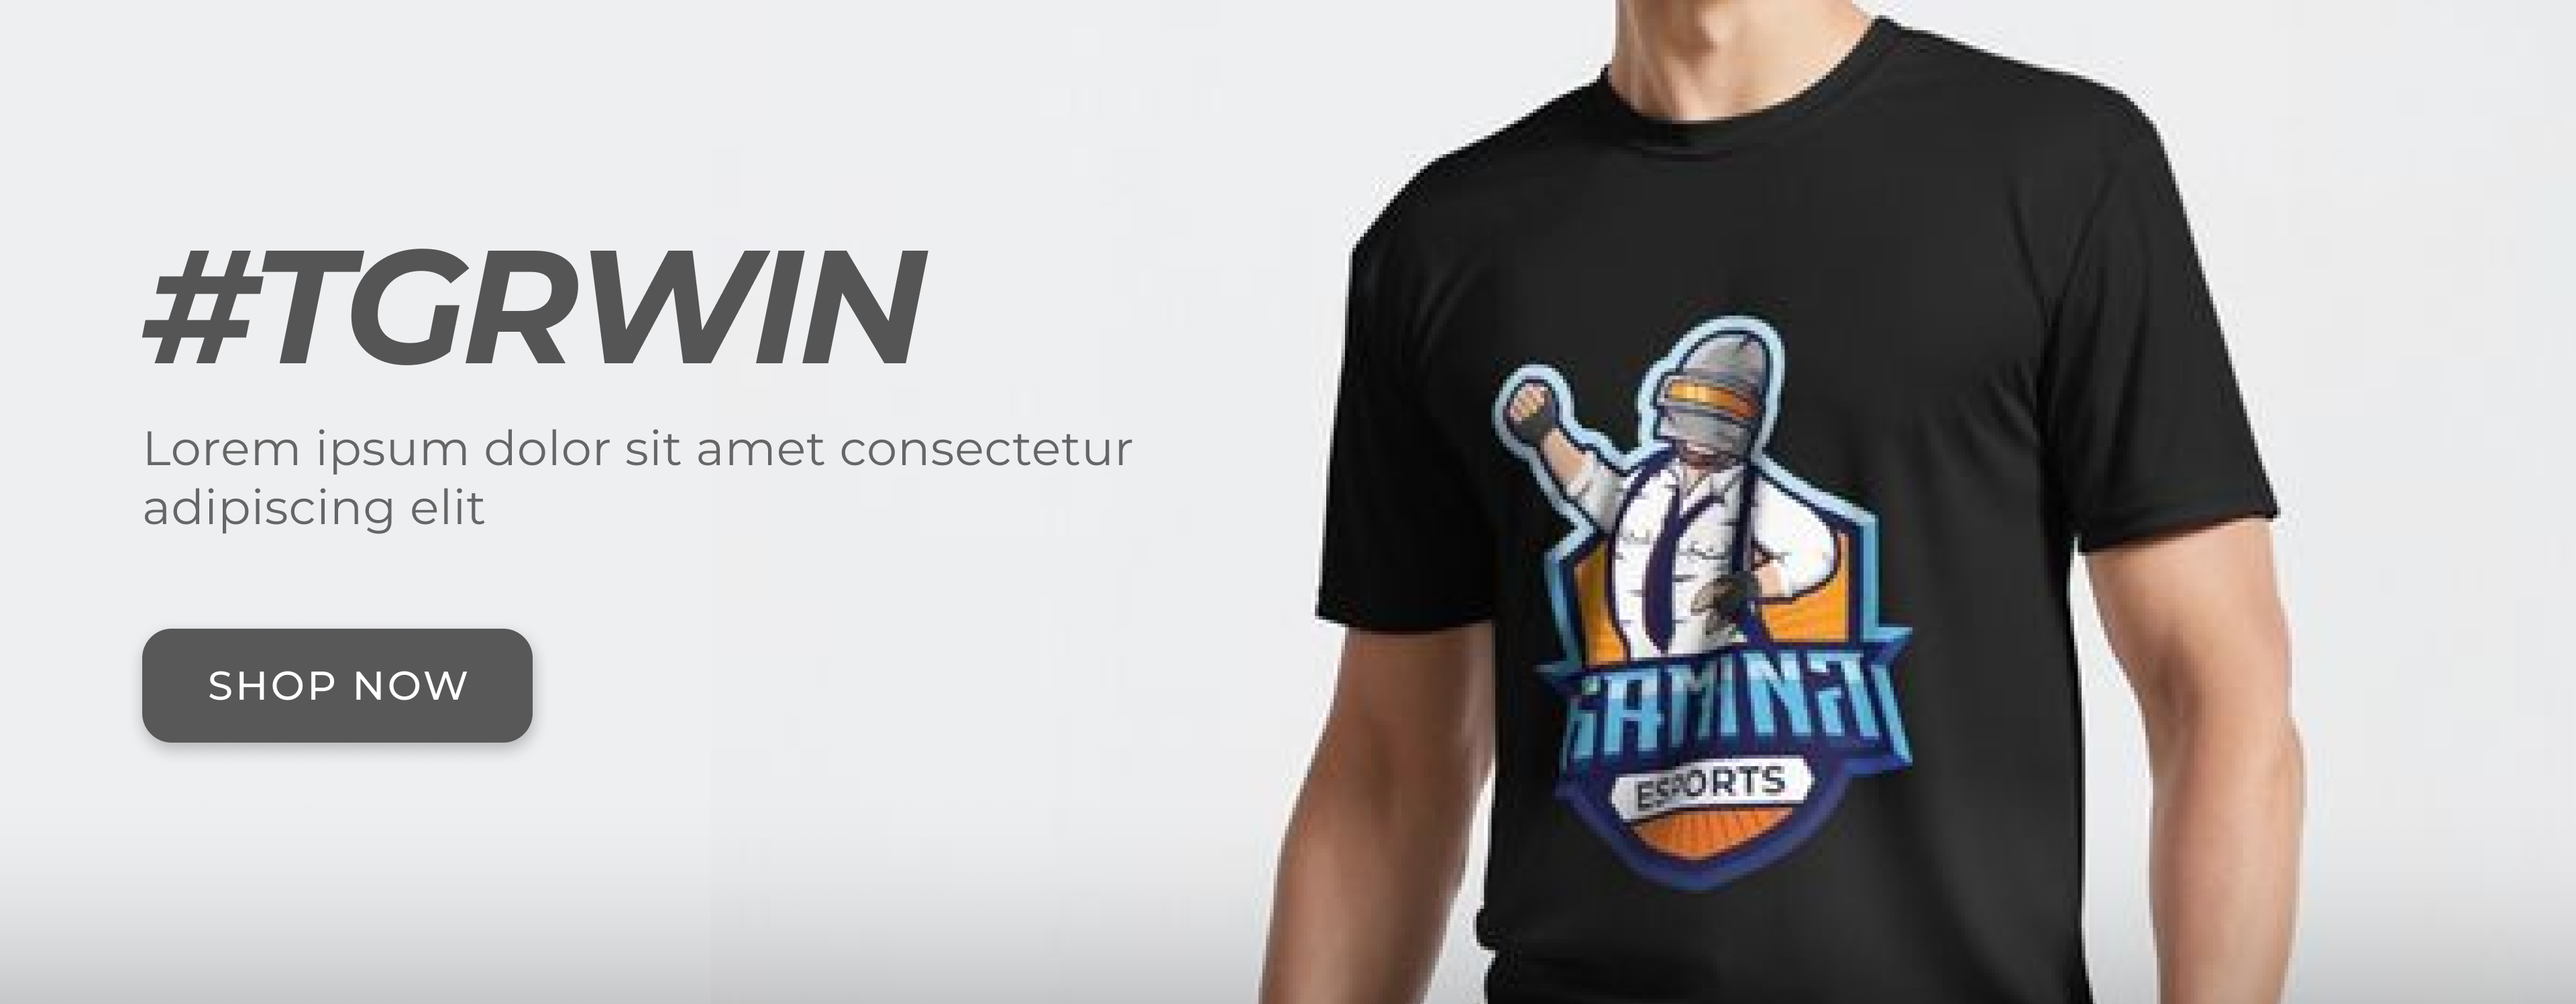
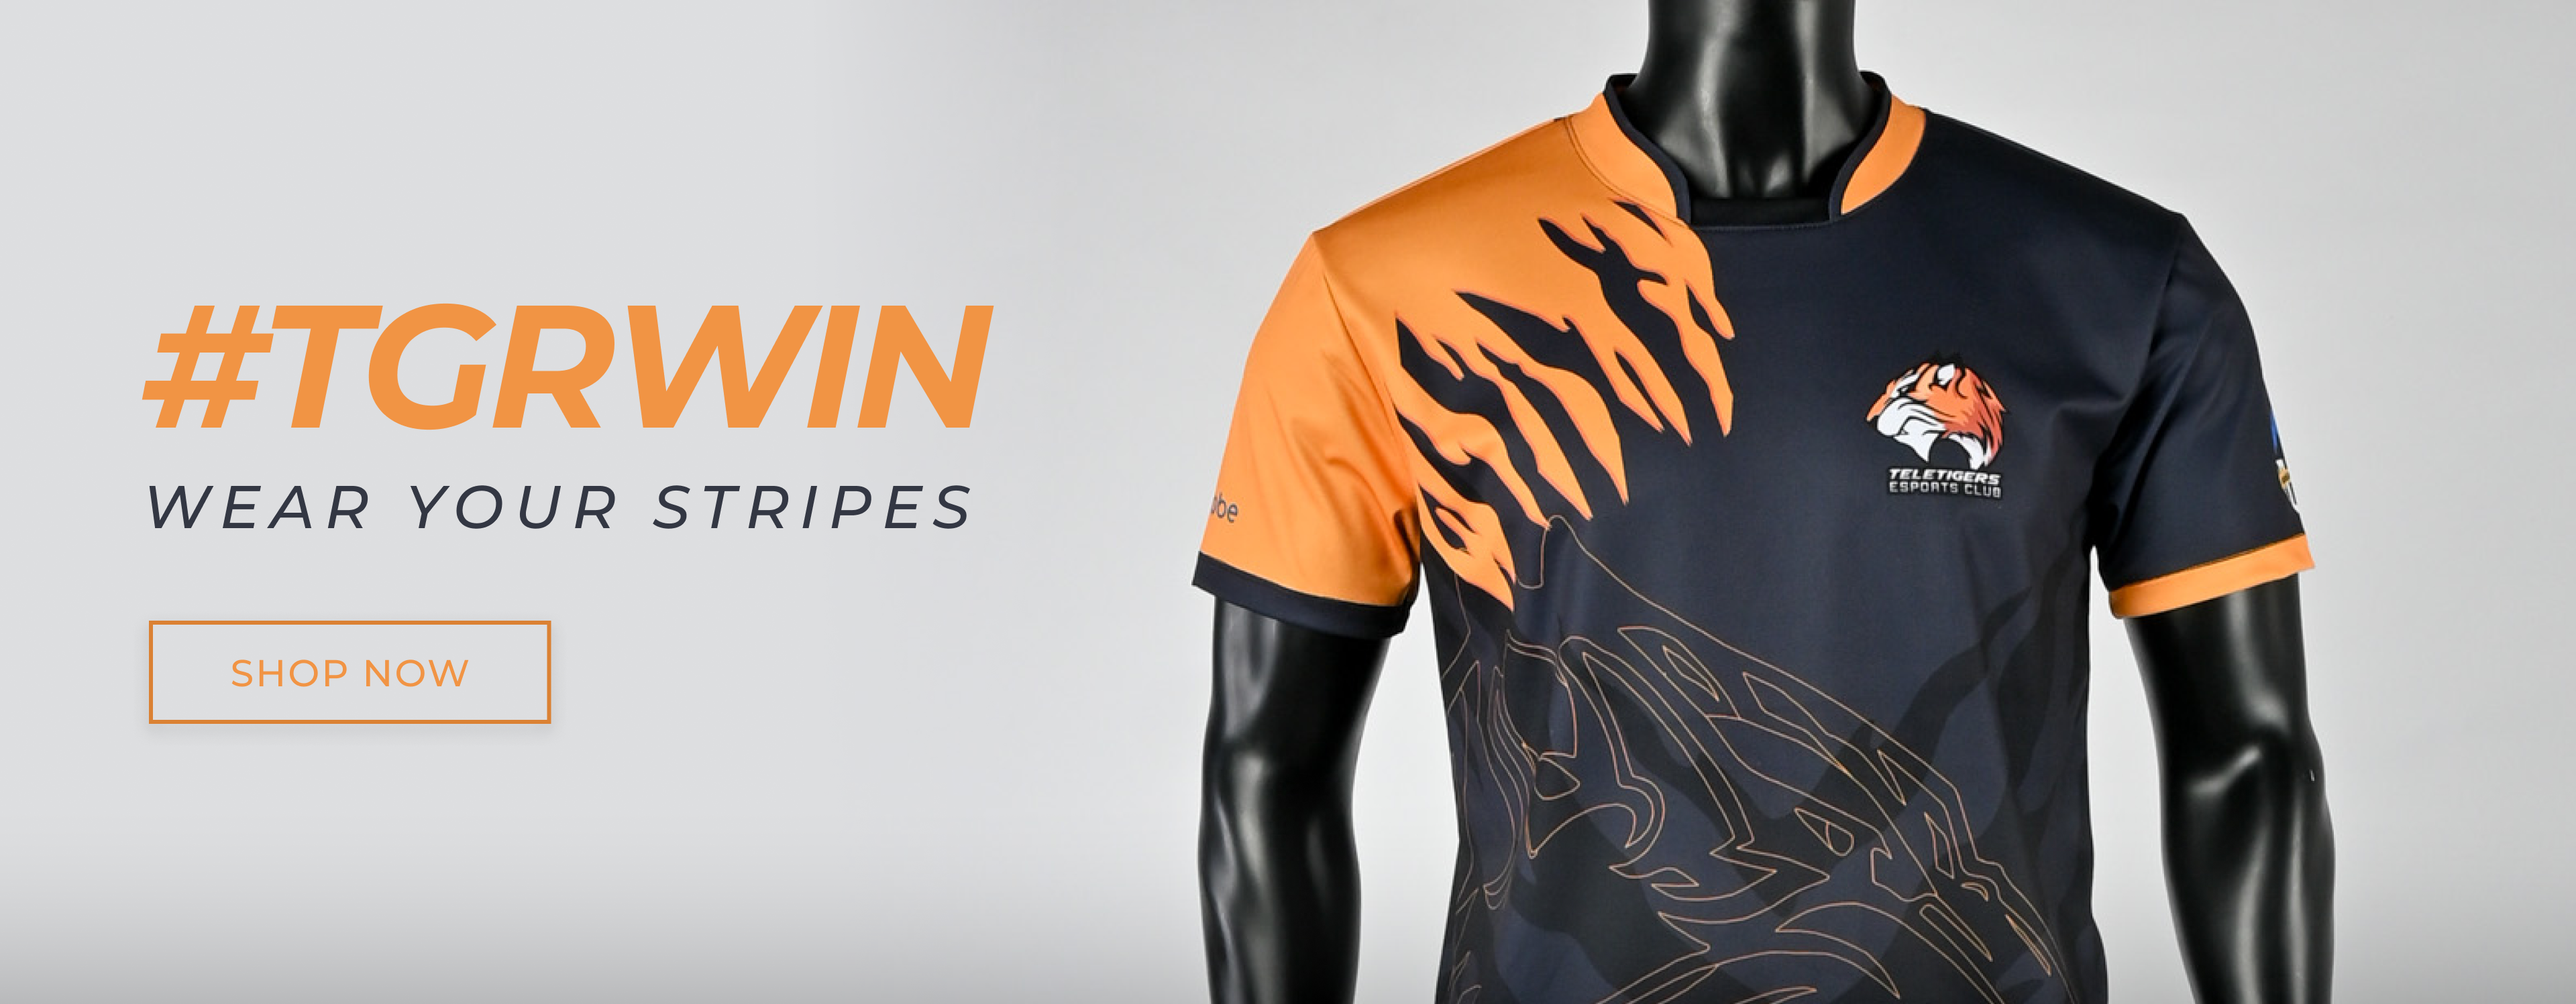
Index and Help Updates
banners, product img, help info

diff --git a/front-end/TGR_merch/pages/help.html b/front-end/TGR_merch/pages/help.html
@@ -45,7 +45,7 @@
                         <i class="fa fa-search"></i>
                     </form>
                     <a href="cart">
-                    <img src="../styles/images/shopping-bag.png" class="bag-icon" />
+                        <img src="../styles/images/shopping-bag.png" class="bag-icon" />
                     </a>
                 </div>
             </div>
@@ -106,7 +106,8 @@
                             <div class="accordion">
                                 <div class="accordion-item">
                                     <button id="accordion-button-1" aria-expanded="false"><span
-                                            class="accordion-title">Proof of Payment</span><span class="icon" aria-hidden="true"></span></button>
+                                            class="accordion-title">Proof of Payment</span><span class="icon"
+                                            aria-hidden="true"></span></button>
                                     <div class="accordion-content">
                                         <p>Lorem ipsum dolor sit amet, consectetur adipiscing elit, sed do eiusmod
                                             tempor incididunt ut labore et dolore magna aliqua. Elementum sagittis vitae
@@ -118,29 +119,41 @@
                                             class="accordion-title">Ordering</span><span class="icon"
                                             aria-hidden="true"></span></button>
                                     <div class="accordion-content">
-                                        <p>Lorem ipsum dolor sit amet, consectetur adipiscing elit, sed do eiusmod
-                                            tempor incididunt ut labore et dolore magna aliqua. Elementum sagittis vitae
-                                            et leo duis ut. Ut tortor pretium viverra suspendisse potenti.</p>
+                                        <p>- Orders will be confirmed once payment is placed by the customer. <br>
+                                            - All merchandise is available for pre-order only. All orders will be
+                                            accepted through filling up this form.
+                                        </p>
                                     </div>
                                 </div>
                                 <div class="accordion-item">
                                     <button id="accordion-button-3" aria-expanded="false"><span
-                                            class="accordion-title">Returns Policy</span><span
-                                            class="icon" aria-hidden="true"></span></button>
+                                            class="accordion-title">Returns Policy</span><span class="icon"
+                                            aria-hidden="true"></span></button>
                                     <div class="accordion-content">
-                                        <p>Lorem ipsum dolor sit amet, consectetur adipiscing elit, sed do eiusmod
-                                            tempor incididunt ut labore et dolore magna aliqua. Elementum sagittis vitae
-                                            et leo duis ut. Ut tortor pretium viverra suspendisse potenti.</p>
+                                        <p>
+                                            - 1 week return policy to be returned to the manufacturer provided valid
+                                            reason on why they want to return it (only damages) <br>
+                                            - We’ll provide you a photo of your product when we receive it in our
+                                            “warehouse” from the manufacturer before we ship it to you. <br>
+                                            - We’ll inform you on what courier will be used but we won’t be responsible
+                                            anymore if it is damaged during shipping to the customer
+                                        </p>
                                     </div>
                                 </div>
                                 <div class="accordion-item">
                                     <button id="accordion-button-4" aria-expanded="false"><span
-                                            class="accordion-title">Shipping</span><span
-                                            class="icon" aria-hidden="true"></span></button>
+                                            class="accordion-title">Shipping</span><span class="icon"
+                                            aria-hidden="true"></span></button>
                                     <div class="accordion-content">
-                                        <p>Lorem ipsum dolor sit amet, consectetur adipiscing elit, sed do eiusmod
-                                            tempor incididunt ut labore et dolore magna aliqua. Elementum sagittis vitae
-                                            et leo duis ut. Ut tortor pretium viverra suspendisse potenti.</p>
+                                        <p>
+                                            <b>When can we receive our merchandise?</b><br>
+                                            - The production takes about 15-30 days. Orders will be shipped by
+                                            batches<br><br>
+                                            <b>Where can we track our orders?</b><br>
+                                            - You’ll be given a code so you can track your order here in the website to
+                                            know if its being processed, shipped to our warehouse, or if its being
+                                            shipped to you by the courier we booked along with their tracking link
+                                        </p>
                                     </div>
                                 </div>
                                 <div class="accordion-item">
@@ -148,9 +161,9 @@
                                             class="accordion-title">Order Status</span><span class="icon"
                                             aria-hidden="true"></span></button>
                                     <div class="accordion-content">
-                                        <p>Lorem ipsum dolor sit amet, consectetur adipiscing elit, sed do eiusmod
-                                            tempor incididunt ut labore et dolore magna aliqua. Elementum sagittis vitae
-                                            et leo duis ut. Ut tortor pretium viverra suspendisse potenti.</p>
+                                        <p>- We’ll give you your Order Number so you can track your order and how it is
+                                            being processed on our website. All orders will be confirmed via email.
+                                        </p>
                                     </div>
                                 </div>
                             </div>

diff --git a/front-end/TGR_merch/pages/index.html b/front-end/TGR_merch/pages/index.html
@@ -66,15 +66,11 @@
                 </div>
                 <div class="slide">
                     <a href="product_info"></a>
-                    <img
-                        src="https://scontent.fcrk3-1.fna.fbcdn.net/v/t39.30808-6/261104170_301327675332140_7261958803018090655_n.png?_nc_cat=108&ccb=1-5&_nc_sid=e3f864&_nc_eui2=AeGAZw3v1HGQqBw55Wv6dJRO0IN5qdzreZ7Qg3mp3Ot5ntXnWk_ke_rSI1j1N4NT-RwbuVhhUVbbL8EqA1s95jOz&_nc_ohc=QQ0PjJ9bOcAAX-4jMyf&_nc_zt=23&_nc_ht=scontent.fcrk3-1.fna&oh=00_AT8o8hT6n6H9ciGnRQ235xjVFGmmdbdUdYcIzcq7RCSPEQ&oe=622F3AAD">
-                    </a>
+                    <img src="../styles/images/main_banner 2.png"> </a>
                 </div>
                 <div class="slide">
                     <a href="product_info">
-                    <img
-                        src="https://scontent.fmnl25-4.fna.fbcdn.net/v/t1.6435-9/178533784_147239790740930_7949319409254555594_n.jpg?_nc_cat=104&ccb=1-5&_nc_sid=19026a&_nc_ohc=-59Gp-DIxCoAX_WFd_f&_nc_ht=scontent.fmnl25-4.fna&oh=00_AT_s2-mi8X6rgrK8SIo5CkVOyer8SFTr8Z7uKNjB8v3-Uw&oe=6239B655">
-                    </a>
+                    <img src="../styles/images/main_banner 3.jpg"> </a>
                     </div>
 
                 <div class="carousel-nav-auto">
@@ -122,20 +118,20 @@
                     <div class="products">
                         <!-- product-tile should be automatically generated per unique item -->
                         <div class="product-tile">
-                            <a href="product_info" class="product-img-container"><img src="../styles/images/product_placeholder.png"
+                            <a href="product_info" class="product-img-container"><img src="../styles/images/shirt_1.JPG"
                                     alt=""></a>
                             <div class="product-title">
-                                <h1>Temporary Product Name</h1>
+                                <h1>Teletigers 2021 Jersey</h1>
                             </div>
                             <div class="product-price">
                                 <h3>PHP 00.00</h3>
                             </div>
                         </div>
                         <div class="product-tile">
-                            <a href="product_info" class="product-img-container"><img src="../styles/images/product_placeholder.png"
+                            <a href="product_info" class="product-img-container"><img src="../styles/images/mask_1.png"
                                     alt=""></a>
                             <div class="product-title">
-                                <h1>Temporary Product Name</h1>
+                                <h1>Teletigers 2021 Face Mask</h1>
                             </div>
                             <div class="product-price">
                                 <h3>PHP 00.00</h3>

diff --git a/front-end/TGR_merch/styles/css/help_style.css b/front-end/TGR_merch/styles/css/help_style.css
@@ -197,7 +197,7 @@
 
 .help-container-2 .help-container .faq-container .faq-main .accordion button[aria-expanded="true"] + .accordion-content {
   opacity: 1;
-  max-height: 9em;
+  max-height: 100%;
   -webkit-transition: all 200ms linear;
   transition: all 200ms linear;
   will-change: opacity, max-height;
@@ -228,3 +228,4 @@
   letter-spacing: 0.1em;
   margin-bottom: 0.3em;
 }
+/*# sourceMappingURL=help_style.css.map */

diff --git a/front-end/TGR_merch/styles/scss/help.scss b/front-end/TGR_merch/styles/scss/help.scss
@@ -174,7 +174,7 @@ $yellow: #dda408;
 						}
 						+ .accordion-content {
 							opacity: 1;
-							max-height: 9em;
+							max-height: 100%;
 							transition: all 200ms linear;
 							will-change: opacity, max-height;
 						}
